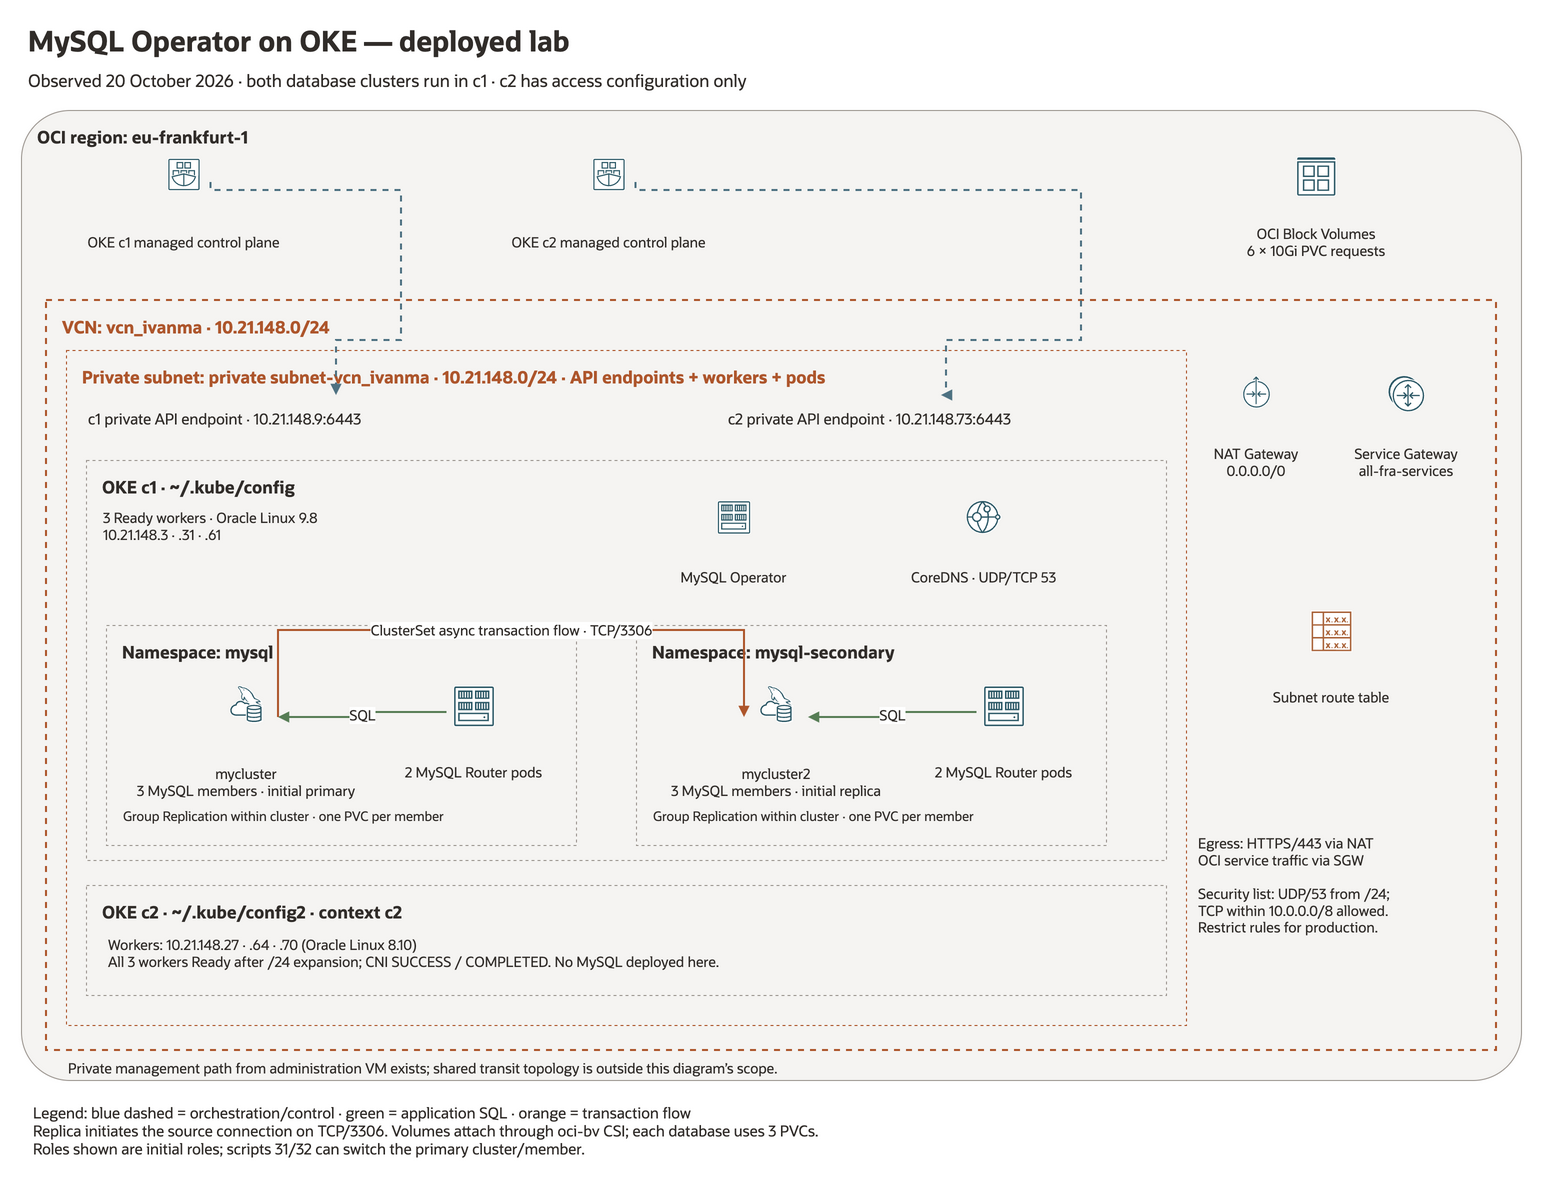
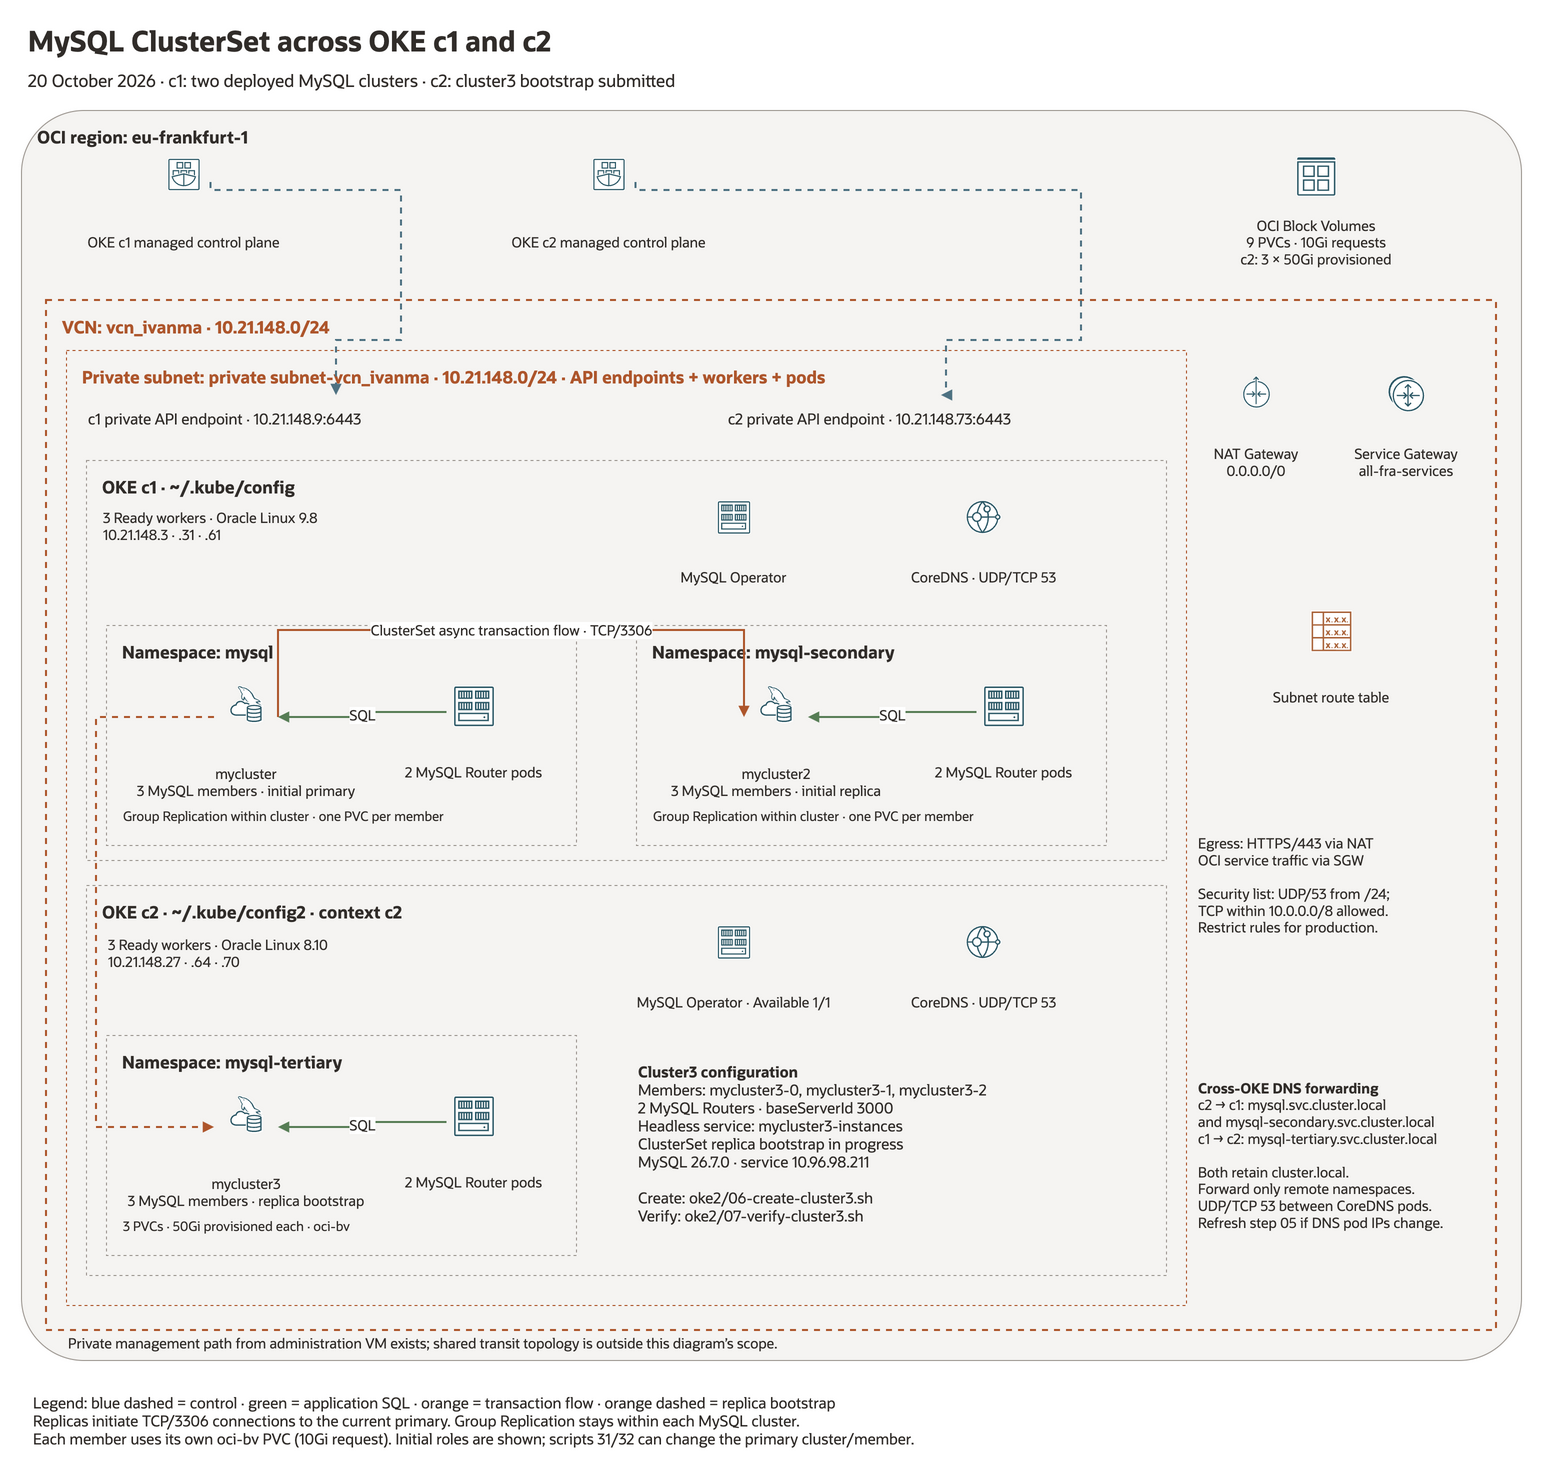
Show c2 MySQL replica deployment and simplify diagram links

diff --git a/README.md b/README.md
@@ -16,7 +16,7 @@ instance**. Versions were checked against the official chart repository on
 
 ![Deployed OKE and MySQL architecture](docs/diagrams/deployment.png)
 
-[Editable deployment diagram](docs/diagrams/deployment.drawio)
+[Deployment diagram source](docs/diagrams/deployment.drawio)
 
 Both MySQL clusters currently run in **OKE c1**, in namespaces `mysql` and
 `mysql-secondary`. Each has three MySQL members and two Router pods; the
@@ -26,19 +26,31 @@ resources; MySQL Group Replication operates within each database cluster and
 asynchronous ClusterSet replication runs between them. Each MySQL member uses
 its own `oci-bv` PVC.
 
-OKE c2 shares the Frankfurt VCN and private subnet. Its access configuration
-uses `~/.kube/config2`, context `c2`. The `oke2/` access steps 01–03 configure access;
-they do not move the existing replica database from c1 to c2. Optional
-steps 04–07 add a third database cluster in c2. The diagram records the
-resolved CNI issue observed on 2026-10-20 after subnet expansion. The existing
-private administration path is outside the depicted Frankfurt network scope;
-the diagram does not assert a direct London–Frankfurt peering connection.
+OKE c2 shares the Frankfurt VCN and private subnet `10.21.148.0/24`.
+Its three workers are Ready and its separate MySQL Operator is Available.
+The diagram includes **`mysql-tertiary/mycluster3`**:
+three MySQL members (`mycluster3-0`, `mycluster3-1`, `mycluster3-2`), two Routers,
+three independent `oci-bv` PVCs requesting 10Gi each, and server IDs starting
+at 3000. OCI provisioned each c2 volume at **50Gi**. Cluster3 bootstrap was
+submitted on 2026-10-20; its three PVCs are Bound and pod initialization is
+in progress. Its Router Service ClusterIP is `10.96.98.211` inside c2.
+
+The [oke2 workflow](oke2/README.md#add-cluster3-in-oke-c2) adds cluster3 as a
+replica of the existing ClusterSet's current primary. Its namespace remains
+separate from the two c1 database namespaces. Both OKE clusters retain
+`cluster.local`; namespace-specific CoreDNS forwarding supplies member name
+resolution across clusters. The replica initiates TCP/3306 connections to the
+source, then receives its transaction stream. Verify the active source and
+read-only state with `oke2/07-verify-cluster3.sh`.
+
+Private management access uses the existing network path. Its shared transit
+topology is outside the diagram's Frankfurt network scope.
 
 ### Sample: a database cluster in each OKE cluster
 
 ![Cross-OKE ClusterSet reference sample](docs/diagrams/cross-oke-sample.png)
 
-[Editable cross-OKE sample](docs/diagrams/cross-oke-sample.drawio)
+[Cross-OKE sample source](docs/diagrams/cross-oke-sample.drawio)
 
 This is an illustrative layout with example CIDRs. The scripts do not provision
 these example networks. The [cluster3 workflow](oke2/README.md#add-cluster3-in-oke-c2)
